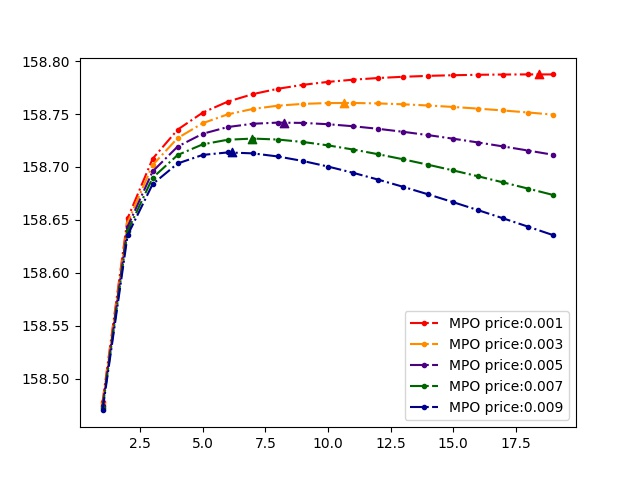
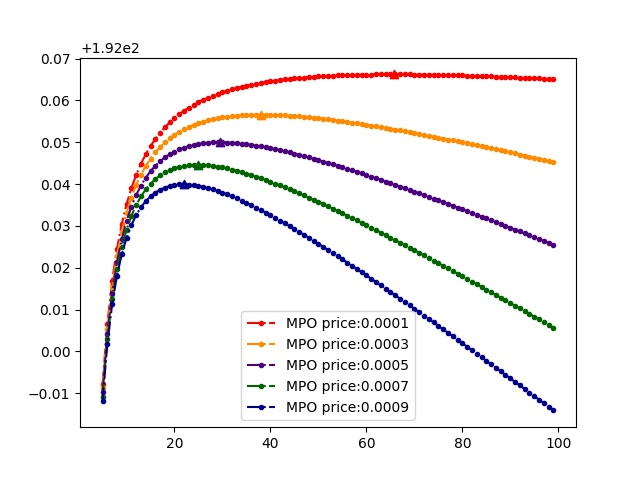
fix graph

diff --git a/simulation_code/asp.py b/simulation_code/asp.py
@@ -51,26 +51,6 @@ class ASP():
         self.utility = util - self.mpo_price * self.z_v
         return
 
-    # def optimize_zh(self):
-    #     if self.z_v == 0:
-    #         self.z_h = 0
-    #         return
-    #     elif GLOBAL_ETA > self.service_rate:
-    #         if ASP_chi_lower(self.phi, self.z_v, self.service_rate, self.arrival_rate) > self.chi:
-    #             print('infeasible')
-    #         self.z_h = self.chi * self.z_v
-    #         self.set_process_time()
-    #         self.set_utility()
-    #         return
-    #     else:
-    #         # self.phi = uniform(ASP_phi_lower_case2(self.z_v, self.service_rate, self.arrival_rate), ASP_phi_upper_case2(self.z_v, self.service_rate, self.arrival_rate))
-    #         # self.z_h = ((self.phi - 1) * self.z_v * self.service_rate + self.arrival_rate) / (GLOBAL_ETA - self.service_rate)
-    #         # print(self.z_h)
-    #         self.z_h = 0
-    #         self.set_process_time()
-    #         self.set_utility()
-    #         return
-
     def set_process_time(self):
         self.process_time = 1 / ((self.z_v - self.z_h) * self.service_rate - (self.arrival_rate - ASP_H(self.z_h)))
 
@@ -90,7 +70,7 @@ class ASP():
             if self.z_v > (self.gamma + self.arrival_rate) / self.service_rate and self.utility >= 0:
                 print('extreme')
         else:
-            self.z_v = 1 / self.service_rate * sqrt(self.service_rate * self.total_payment / ((ASP_DEVICE_LATENCY_UPPER - ASP_DEVICE_LATENCY_LOWER) * self.mpo_price)) + self.arrival_rate / self.service_rate
+            self.z_v = (1 / self.service_rate) * sqrt(self.service_rate * self.total_payment / ((ASP_DEVICE_LATENCY_UPPER - ASP_DEVICE_LATENCY_LOWER) * self.mpo_price)) + self.arrival_rate / self.service_rate
             if self.z_v < (self.gamma + self.arrival_rate) / self.service_rate:
                 self.z_v = (self.gamma + self.arrival_rate) / self.service_rate
                 print('queue')
@@ -105,20 +85,19 @@ class ASP():
                 print('extreme')
 
     def plot_max(self):
-        mpo_lst = [0.001, 0.003, 0.005, 0.007, 0.009]
-        color_dict = {0.001 : 'red', 0.003 : 'darkorange', 0.005 : 'indigo', 0.007 : 'darkgreen', 0.009 : 'darkblue'}
+        mpo_lst = [0.0001, 0.0003, 0.0005, 0.0007, 0.0009]
+        color_dict = {0.0001 : 'red', 0.0003 : 'darkorange', 0.0005 : 'indigo', 0.0007 : 'darkgreen', 0.0009 : 'darkblue'}
         if GLOBAL_ETA > self.service_rate:
             for mpo_price in mpo_lst:
                 self.mpo_price = mpo_price
                 self.z_v = sqrt(self.total_payment / ((ASP_DEVICE_LATENCY_UPPER - ASP_DEVICE_LATENCY_LOWER) * self.mpo_price * ((1 - self.chi) * self.service_rate + self.chi * GLOBAL_ETA))) + self.arrival_rate / ((1 - self.chi) * self.service_rate + self.chi * GLOBAL_ETA)
                 self.z_h = self.chi * self.z_v
+                ut = []
+                z_v = []
                 self.set_process_time()
                 self.set_utility()
                 plt.scatter(self.z_v, self.utility, color=color_dict[mpo_price], marker='^')
-                extre = floor(self.z_v)
-                ut = []
-                z_v = []
-                for i in range(1, 20):
+                for i in range(5, 100):
                     self.z_v = i
                     self.z_h = self.chi * self.z_v
                     self.set_process_time()
@@ -133,15 +112,14 @@ class ASP():
         else:
             for mpo_price in mpo_lst:
                 self.mpo_price = mpo_price
-                self.z_v = 1 / self.service_rate * sqrt(self.service_rate * self.total_payment / ((ASP_DEVICE_LATENCY_UPPER - ASP_DEVICE_LATENCY_LOWER) * self.mpo_price)) + self.arrival_rate / self.service_rate
+                self.z_v = (1 / self.service_rate) * sqrt(self.service_rate * self.total_payment / ((ASP_DEVICE_LATENCY_UPPER - ASP_DEVICE_LATENCY_LOWER) * self.mpo_price)) + self.arrival_rate / self.service_rate
                 self.z_h = 0
+                ut = []
+                z_v = []
                 self.set_process_time()
                 self.set_utility()
                 plt.scatter(self.z_v, self.utility, color=color_dict[mpo_price], marker='^')
-                extre = floor(self.z_v)
-                ut = []
-                z_v = []
-                for i in range(1, 20):
+                for i in range(5, 100):
                     self.z_v = i
                     self.z_h = self.chi * self.z_v
                     self.set_process_time()
@@ -153,4 +131,5 @@ class ASP():
                 ut = []
                 z_v = []
             plt.savefig('./asp_utility_case2.jpg')
+            print('case2')
             plt.close()

diff --git a/simulation_code/const.py b/simulation_code/const.py
@@ -1,4 +1,4 @@
-
+from math import exp
 ########################################
 # These are the parameters of Global
 # Prefix with GLOBAL_
@@ -50,17 +50,6 @@ ASP_CPU_FREQUENCY_LOWER = 0.1 * 10E9
 def ASP_chi_lower(phi, z, mu, lamb):
     return ((phi - 1) * z * mu + lamb) / ((GLOBAL_ETA - mu) * z)
 
-# def ASP_phi_upper_case1(z, mu, lamb):
-#     return (z * (GLOBAL_ETA - mu) - lamb) / (z * mu) + 1
-#
-# def ASP_phi_lower_case1(z, mu, lamb):
-#     return -1 * lamb / (mu * z)
-#
-# def ASP_phi_upper_case2(z, mu, lamb):
-#     return (GLOBAL_ETA - mu - lamb) / (z * mu) + 1
-#
-# def ASP_phi_lower_case2(z, mu, lamb):
-#     return -1 * lamb / (mu * z)
 ###################################################
 # H function
 def ASP_H(x):
@@ -72,5 +61,6 @@ def ASP_H(x):
 ########################################
 MPO_NUM_OF_ASP_UPPER = 50
 MPO_NUM_OF_ASP_LOWER = 25
+
 def MPO_cost(x):
-    return 0.05 * x ** 2
+    return 100 * exp(x)
